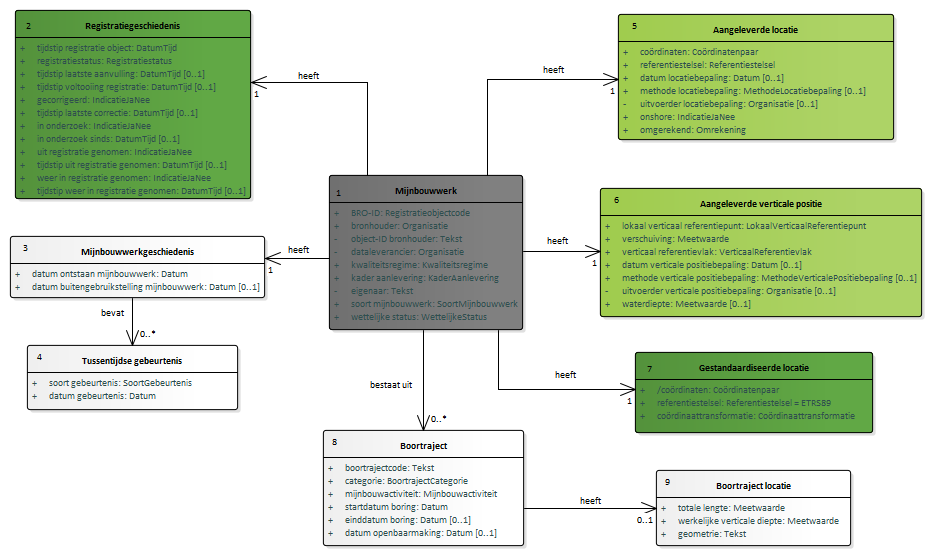
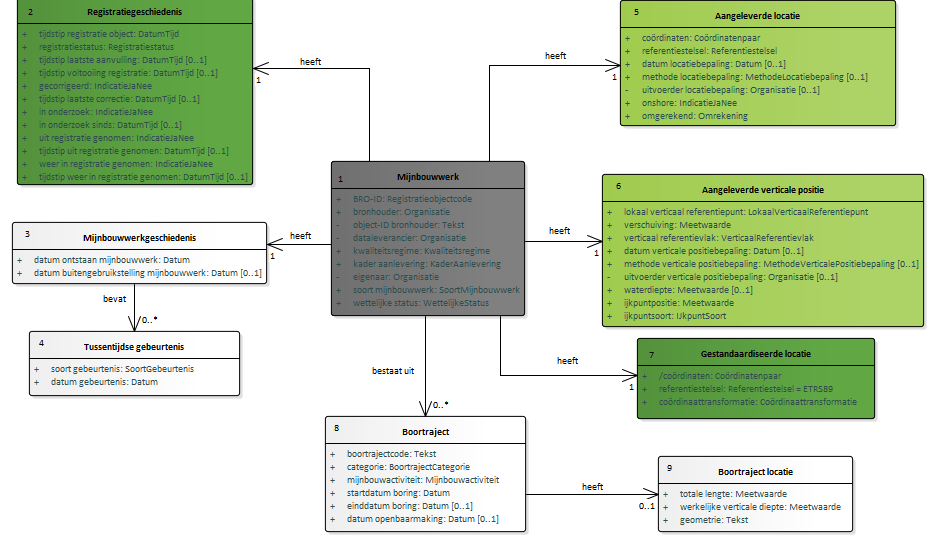
Conceptualmodel-MijnbouwconstructiesEPC-conceptueel-0.1versie27juli2020-1-20200727-20201105-084850

Changed region(s): [[0.0, 0.2752, 0.9957, 1.0], [0.0, 0.0, 0.4045, 0.3669], [0.5601, 0.0, 0.9646, 0.2752]]

diff --git a/data/EPC-cat.msword.html b/data/EPC-cat.msword.html
@@ -15,7 +15,7 @@
    <body>
       <p>Conceptual model/Mijnbouwconstructies (EPC) - conceptueel/20200727</p>
       <p>Imvertor: 1.61.3</p>
-      <p>Model release: Conceptualmodel-MijnbouwconstructiesEPC-conceptueel-0.1versie27juli2020-1-20200727-20201103-140655</p>
+      <p>Model release: Conceptualmodel-MijnbouwconstructiesEPC-conceptueel-0.1versie27juli2020-1-20200727-20201105-084850</p>
       <hr>
       <section>
          <h1>Artikel 1 Definitie van registratieobject, entiteiten en attributen</h1>
@@ -61,7 +61,7 @@
          <section>
             <h2>Het domeinmodel</h2>
             <section id="">
-               <div class="imageinfo overview"><img src="Images/EAID_017CB205_53B6_4659_8664_F773CFA9FA2C.png" usemap="#imagemap-EAID_017CB205_53B6_4659_8664_F773CFA9FA2C" alt="Diagram "><map name="imagemap-EAID_017CB205_53B6_4659_8664_F773CFA9FA2C"><area shape="rect" alt="Tussentijdse gebeurtenis" coords="27,345,238,410" href="#graph_EAID_9C6EA470_E1F4_479d_B21A_A6E8EA9D3F88"><area shape="rect" alt="Mijnbouwwerkgeschiedenis" coords="10,236,265,298" href="#graph_EAID_C36A9725_3F81_4f6c_BDE2_5CED730905A2"><area shape="rect" alt="Boortraject locatie" coords="656,470,851,546" href="#graph_EAID_410F626E_1E87_47b5_AB5A_014C2D41B9B7"><area shape="rect" alt="Gestandaardiseerde locatie" coords="635,352,873,433" href="#graph_EAID_95E39295_3080_4135_862A_30756039B864"><area shape="rect" alt="Boortraject" coords="323,430,524,546" href="#graph_EAID_4E52826A_2252_4994_8AD0_986AD45E18C9"><area shape="rect" alt="Mijnbouwwerk" coords="329,175,523,330" href="#graph_EAID_69DE8D60_7E06_4b57_94CD_8338348EDAE5"><area shape="rect" alt="Registratiegeschiedenis" coords="15,10,251,199" href="#graph_EAID_8550146B_496A_40ca_BE86_AFD377E5A6D8"><area shape="rect" alt="Aangeleverde verticale positie" coords="600,188,922,317" href="#graph_EAID_A249D799_B098_49cd_98AA_DCAE0EB07DE7"><area shape="rect" alt="Aangeleverde locatie" coords="618,14,894,140" href="#graph_EAID_EDA11EEA_8FED_44be_AC04_18B58CB46F11"></map><p><b>Mijnbouwwerken (EPC) -  overzicht</b></p>
+               <div class="imageinfo overview"><img src="Images/EAID_017CB205_53B6_4659_8664_F773CFA9FA2C.png" usemap="#imagemap-EAID_017CB205_53B6_4659_8664_F773CFA9FA2C" alt="Diagram "><map name="imagemap-EAID_017CB205_53B6_4659_8664_F773CFA9FA2C"><area shape="rect" alt="Tussentijdse gebeurtenis" coords="29,331,240,396" href="#graph_EAID_9C6EA470_E1F4_479d_B21A_A6E8EA9D3F88"><area shape="rect" alt="Mijnbouwwerkgeschiedenis" coords="12,222,267,284" href="#graph_EAID_C36A9725_3F81_4f6c_BDE2_5CED730905A2"><area shape="rect" alt="Boortraject locatie" coords="658,456,853,532" href="#graph_EAID_410F626E_1E87_47b5_AB5A_014C2D41B9B7"><area shape="rect" alt="Gestandaardiseerde locatie" coords="637,338,875,419" href="#graph_EAID_95E39295_3080_4135_862A_30756039B864"><area shape="rect" alt="Boortraject" coords="325,416,526,532" href="#graph_EAID_4E52826A_2252_4994_8AD0_986AD45E18C9"><area shape="rect" alt="Mijnbouwwerk" coords="331,161,525,316" href="#graph_EAID_69DE8D60_7E06_4b57_94CD_8338348EDAE5"><area shape="rect" alt="Registratiegeschiedenis" coords="17,-4,253,185" href="#graph_EAID_8550146B_496A_40ca_BE86_AFD377E5A6D8"><area shape="rect" alt="Aangeleverde verticale positie" coords="602,174,924,327" href="#graph_EAID_A249D799_B098_49cd_98AA_DCAE0EB07DE7"><area shape="rect" alt="Aangeleverde locatie" coords="620,0,896,126" href="#graph_EAID_EDA11EEA_8FED_44be_AC04_18B58CB46F11"></map><p><b>Mijnbouwwerken (EPC) -  overzicht</b></p>
                </div>
             </section>
          </section>
@@ -427,7 +427,20 @@
                            </tr>
                            <tr>
                               <th>&nbsp;&nbsp;Naam</th>
-                              <td>Tekst </td>
+                              <td>Organisatie</td>
+                           </tr>
+                           <tr>
+                              <th>Mogelijk geen waarde</th>
+                              <td>Ja</td>
+                           </tr>
+                           <tr>
+                              <th>Reden geen waarde</th>
+                              <td>
+                                 
+                                 <p>Het KVKnummer van de eigenaar is op dit moment niet aanwezig in DINO. Na de migratie
+                                    van DINO naar GDNR is het de bedoeling de KVKnummers op te nemen. tot die tijd mag
+                                    het attribuut geen waarde hebben.</p>
+                                 </td>
                            </tr>
                            <tr>
                               <th>Toelichting</th>
@@ -1655,7 +1668,7 @@
                      </section>
                </section><a class="anchor" id="graph_EAID_A249D799_B098_49cd_98AA_DCAE0EB07DE7"></a><a class="anchor" id="global_class_Model_Aangeleverdeverticalepositie"></a><section id="global_class_Model_Aangeleverdeverticalepositie">
                   <h3>   Aangeleverde verticale positie</h3>
-                  <div class="imageinfo "><img src="Images/EAID_E43DE41D_1042_4cc7_BE46_F2443ACF1254.png" usemap="#imagemap-EAID_E43DE41D_1042_4cc7_BE46_F2443ACF1254" alt="Diagram "><map name="imagemap-EAID_E43DE41D_1042_4cc7_BE46_F2443ACF1254"><area shape="rect" alt="Aangeleverde verticale positie" coords="10,10,332,135" href="#graph_EAID_A249D799_B098_49cd_98AA_DCAE0EB07DE7"></map><p><b></b></p>
+                  <div class="imageinfo "><img src="Images/EAID_E43DE41D_1042_4cc7_BE46_F2443ACF1254.png" usemap="#imagemap-EAID_E43DE41D_1042_4cc7_BE46_F2443ACF1254" alt="Diagram "><map name="imagemap-EAID_E43DE41D_1042_4cc7_BE46_F2443ACF1254"><area shape="rect" alt="Aangeleverde verticale positie" coords="-124,-113,198,40" href="#graph_EAID_A249D799_B098_49cd_98AA_DCAE0EB07DE7"></map><p><b></b></p>
                   </div>
                   <table style="width: 100%;">
                      <colgroup style="width: 30%;"></colgroup>
@@ -2058,6 +2071,84 @@
                                     op land waar de waterdiepte veranderlijk is, bijvoorbeeld in uiterwaarden. De waterdiepte
                                     moet beschouwd worden als indicatief.</p>
                                  </td>
+                           </tr>
+                        </tbody>
+                     </table>
+                     </section><a class="anchor" id="detail_attribute_Model_Aangeleverdeverticalepositie_ijkpuntpositie"></a><section id="detail_attribute_Model_Aangeleverdeverticalepositie_ijkpuntpositie">
+                     <h4>  ijkpuntpositie</h4>
+                     
+                     <table style="width: 100%;">
+                        <colgroup style="width: 30%;"></colgroup>
+                        <colgroup style="width: 70%;"></colgroup>
+                        <tbody>
+                           <tr>
+                              <th>Type gegeven</th>
+                              <td>Attribuut van Aangeleverde verticale positie</td>
+                           </tr>
+                           <tr>
+                              <th>Definitie</th>
+                              <td>
+                                 
+                                 <p>De positie van het ijkpunt ten opzichte van het verticaal referentievlak.</p>
+                                 </td>
+                           </tr>
+                           <tr>
+                              <th>Juridische status</th>
+                              <td>Authentiek</td>
+                           </tr>
+                           <tr>
+                              <th>Kardinaliteit</th>
+                              <td>1</td>
+                           </tr>
+                           <tr>
+                              <th>Domein</th>
+                              <td></td>
+                           </tr>
+                           <tr>
+                              <th>&nbsp;&nbsp;Naam</th>
+                              <td>Meetwaarde 
+                                 </td>
+                           </tr>
+                        </tbody>
+                     </table>
+                     </section><a class="anchor" id="detail_attribute_Model_Aangeleverdeverticalepositie_ijkpuntsoort"></a><section id="detail_attribute_Model_Aangeleverdeverticalepositie_ijkpuntsoort">
+                     <h4>  ijkpuntsoort</h4>
+                     
+                     <table style="width: 100%;">
+                        <colgroup style="width: 30%;"></colgroup>
+                        <colgroup style="width: 70%;"></colgroup>
+                        <tbody>
+                           <tr>
+                              <th>Type gegeven</th>
+                              <td>Attribuut van Aangeleverde verticale positie</td>
+                           </tr>
+                           <tr>
+                              <th>Definitie</th>
+                              <td>
+                                 
+                                 <p>Het punt op het verticale vlak van waaruit de geometrie van het boortraject begint.
+                                    </p>
+                                 </td>
+                           </tr>
+                           <tr>
+                              <th>Juridische status</th>
+                              <td>Authentiek</td>
+                           </tr>
+                           <tr>
+                              <th>Kardinaliteit</th>
+                              <td>1</td>
+                           </tr>
+                           <tr>
+                              <th>Domein</th>
+                              <td></td>
+                           </tr>
+                           <tr>
+                              <th>&nbsp;&nbsp;Naam</th>
+                              <td><a class="link" href="#detail_class_Model_IJkpuntSoort">IJkpuntSoort</a></td>
+                           </tr>
+                           <tr>
+                              <th>&nbsp;&nbsp;Type</th>
+                              <td>Waardelijst uitbreidbaar</td>
                            </tr>
                         </tbody>
                      </table>
@@ -3114,6 +3205,15 @@
                            daar waar de aarde bedekt is met water.</p>
                         </td>
                   </tr>
+                  <tr>
+                     <td>NAP</td>
+                     <td>✔</td>
+                     <td>✔</td>
+                     <td>
+                        
+                        <p>Normaal Amsterdams Peil.</p>
+                        </td>
+                  </tr>
                </tbody>
             </table>
             </section>
@@ -3678,15 +3778,6 @@
                         <p>World Geodetic System 1984 (EPSG 4326).</p>
                         </td>
                   </tr>
-                  <tr>
-                     <td>ED50</td>
-                     <td>✔</td>
-                     <td>✔</td>
-                     <td>
-                        
-                        <p>European Datum 1950</p>
-                        </td>
-                  </tr>
                </tbody>
             </table>
             </section>
@@ -4013,6 +4104,85 @@
                         
                         <p>De coördinaten van de locatie zijn vòòr aanlevering aan de BRO omgerekend  van het
                            referentiestelsel RD naar het referentiestelsel ETRS89.</p>
+                        </td>
+                  </tr>
+               </tbody>
+            </table>
+            </section>
+         <section id="detail_class_Model_IJkpuntSoort">
+            <h3>  IJkpuntSoort</h3>
+            
+            <table style="width: 100%;" class="list">
+               <colgroup></colgroup>
+               <tbody>
+                  <tr>
+                     <td>
+                        
+                        <p>De lijst met wettelijke statussen van mijnbouwwerken.</p>
+                        </td>
+                  </tr>
+               </tbody>
+            </table>
+            
+            <table style="width: 100%;" class="list">
+               <colgroup style="width: 20%;"></colgroup>
+               <colgroup style="width: 5%;"></colgroup>
+               <colgroup style="width: 5%;"></colgroup>
+               <colgroup></colgroup>
+               <tbody>
+                  <tr>
+                     <th>Waarde</th>
+                     <th>IMBRO</th>
+                     <th>IMBRO/A</th>
+                     <th>Omschrijving</th>
+                  </tr>
+                  <tr>
+                     <td>maaiveld</td>
+                     <td>✔</td>
+                     <td>✔</td>
+                     <td>
+                        
+                        <p>Het oppervlak van de vaste aarde, daar waar de aarde niet bedekt is met water. Het
+                           maaiveld vormt de grens tussen de ondergrond en de bovengrond.</p>
+                        </td>
+                  </tr>
+                  <tr>
+                     <td>draaitafel</td>
+                     <td>✔</td>
+                     <td>✔</td>
+                     <td>
+                        
+                        <p>Het draaiende gedeelte van de boorvloer dat de kracht levert om de boorstreng met
+                           de klok mee te draaien (van bovenaf gezien). </p>
+                        </td>
+                  </tr>
+                  <tr>
+                     <td>kellyBushing</td>
+                     <td>✔</td>
+                     <td>✔</td>
+                     <td>
+                        
+                        <p>De adapter die de draaitafel met de kelly verbind. </p>
+                        </td>
+                  </tr>
+                  <tr>
+                     <td>boorvloer</td>
+                     <td>✔</td>
+                     <td>✔</td>
+                     <td>
+                        
+                        <p>De boorvloer is het hart van elke boorinstallatie, het gebied waar de boorstreng zijn
+                           reis naar het aardoppervlak begint. </p>
+                        </td>
+                  </tr>
+                  <tr>
+                     <td>cellarFloor</td>
+                     <td>✔</td>
+                     <td>✔</td>
+                     <td>
+                        
+                        <p>De vloer van de put onder de boorvloer welke extra hoogte bied tussen de boorvloer
+                           en de boorgatmond.</p>
                         </td>
                   </tr>
                </tbody>
